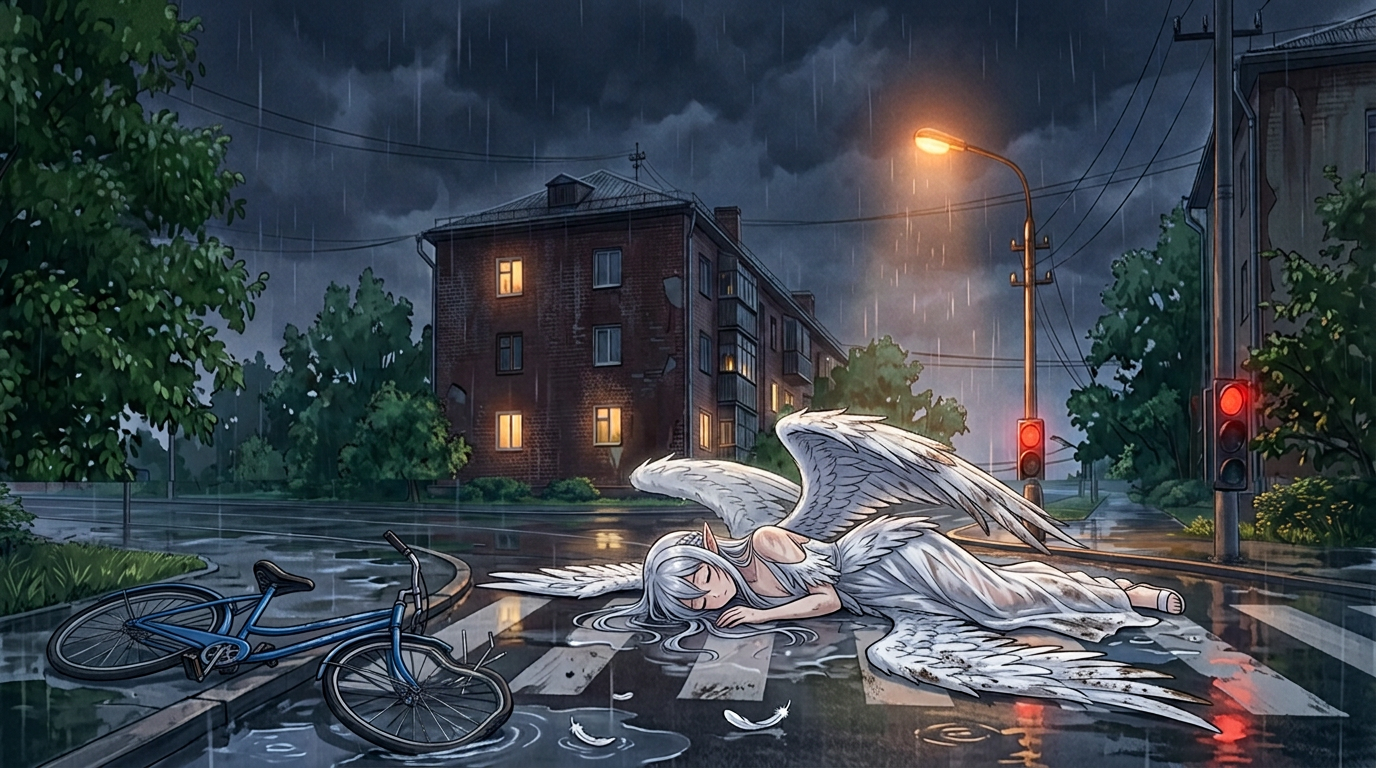
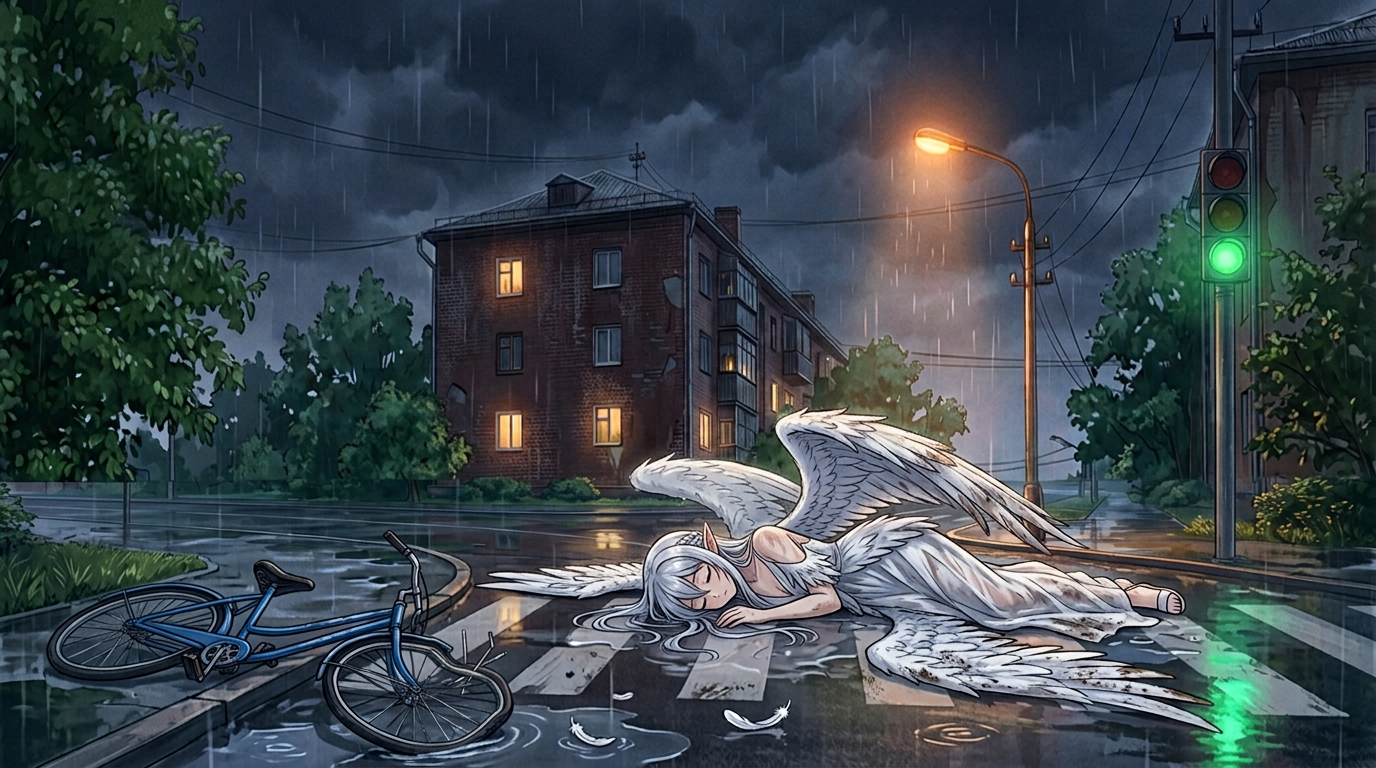
_31: CG — светофор на зебре (зелёный, на своей опоре), пустые босоножки у реки

Changed region(s): [[0.8438, 0.1875, 0.9688, 1.0], [0.7188, 0.5, 0.7812, 0.625], [0.7188, 0.9062, 0.7812, 1.0]]

diff --git a/index.html b/index.html
@@ -260,37 +260,37 @@
   </div>
 
   <!-- SCRIPT CHAPTERS -->
-  <script src="vn-config.js?v=20261102_30"></script>
-  <script src="vn-core.js?v=20261102_30"></script>
-  <script src="script/_registry.js?v=20261102_30"></script>
-  <script src="script/prologue_1_morning.js?v=20261102_30"></script>
-  <script src="script/prologue_2_city.js?v=20261102_30"></script>
-  <script src="script/prologue_3_barbershop.js?v=20261102_30"></script>
-  <script src="script/prologue_4_depot.js?v=20261102_30"></script>
-  <script src="script/prologue_5_crash.js?v=20261102_30"></script>
-  <script src="script/day1_1_mirael.js?v=20261102_30"></script>
-  <script src="script/day1_2_kitchen.js?v=20261102_30"></script>
-  <script src="script/day1_3_valeria.js?v=20261102_30"></script>
-  <script src="script/day1_4_bridge.js?v=20261102_30"></script>
-  <script src="script/day1_5_taya.js?v=20261102_30"></script>
-  <script src="script/day2_1_quit.js?v=20261102_30"></script>
-  <script src="script/day2_2_shift.js?v=20261102_30"></script>
-  <script src="script/day2_3_zero.js?v=20261102_30"></script>
-  <script src="script/day2_4_walk.js?v=20261102_30"></script>
-  <script src="script/day3_1_office.js?v=20261102_30"></script>
-  <script src="script/day3_2_nika.js?v=20261102_30"></script>
-  <script src="script/day3_3_home.js?v=20261102_30"></script>
-  <script src="script/day4_1_free.js?v=20261102_30"></script>
-  <script src="script/day4_2_barbershop.js?v=20261102_30"></script>
-  <script src="script/day4_3_home.js?v=20261102_30"></script>
-  <script src="script/day5_1_artyom.js?v=20261102_30"></script>
-  <script src="script/day5_2_elevator.js?v=20261102_30"></script>
-  <script src="script/day5_3_night.js?v=20261102_30"></script>
-  <script src="script/day6_1_morning.js?v=20261102_30"></script>
-  <script src="script/day6_2_squeeze.js?v=20261102_30"></script>
-  <script src="script/day6_3_taya.js?v=20261102_30"></script>
-  <script src="script/day7_1_voices.js?v=20261102_30"></script>
-  <script src="script/day7_2_stairs.js?v=20261102_30"></script>
-  <script src="engine.js?v=20261102_30"></script>
+  <script src="vn-config.js?v=20261102_31"></script>
+  <script src="vn-core.js?v=20261102_31"></script>
+  <script src="script/_registry.js?v=20261102_31"></script>
+  <script src="script/prologue_1_morning.js?v=20261102_31"></script>
+  <script src="script/prologue_2_city.js?v=20261102_31"></script>
+  <script src="script/prologue_3_barbershop.js?v=20261102_31"></script>
+  <script src="script/prologue_4_depot.js?v=20261102_31"></script>
+  <script src="script/prologue_5_crash.js?v=20261102_31"></script>
+  <script src="script/day1_1_mirael.js?v=20261102_31"></script>
+  <script src="script/day1_2_kitchen.js?v=20261102_31"></script>
+  <script src="script/day1_3_valeria.js?v=20261102_31"></script>
+  <script src="script/day1_4_bridge.js?v=20261102_31"></script>
+  <script src="script/day1_5_taya.js?v=20261102_31"></script>
+  <script src="script/day2_1_quit.js?v=20261102_31"></script>
+  <script src="script/day2_2_shift.js?v=20261102_31"></script>
+  <script src="script/day2_3_zero.js?v=20261102_31"></script>
+  <script src="script/day2_4_walk.js?v=20261102_31"></script>
+  <script src="script/day3_1_office.js?v=20261102_31"></script>
+  <script src="script/day3_2_nika.js?v=20261102_31"></script>
+  <script src="script/day3_3_home.js?v=20261102_31"></script>
+  <script src="script/day4_1_free.js?v=20261102_31"></script>
+  <script src="script/day4_2_barbershop.js?v=20261102_31"></script>
+  <script src="script/day4_3_home.js?v=20261102_31"></script>
+  <script src="script/day5_1_artyom.js?v=20261102_31"></script>
+  <script src="script/day5_2_elevator.js?v=20261102_31"></script>
+  <script src="script/day5_3_night.js?v=20261102_31"></script>
+  <script src="script/day6_1_morning.js?v=20261102_31"></script>
+  <script src="script/day6_2_squeeze.js?v=20261102_31"></script>
+  <script src="script/day6_3_taya.js?v=20261102_31"></script>
+  <script src="script/day7_1_voices.js?v=20261102_31"></script>
+  <script src="script/day7_2_stairs.js?v=20261102_31"></script>
+  <script src="engine.js?v=20261102_31"></script>
 </body>
 </html>

diff --git a/engine.js b/engine.js
@@ -1,6 +1,6 @@
 // ДВИЖОК ВИЗУАЛЬНОЙ НОВЕЛЛЫ «НЕ СМОТРИ НА НЕБО» ($WAG ENTERTAINMENT)
 (function () {
-  const ASSET_VER = "20261102_30";
+  const ASSET_VER = "20261102_31";
 
   function withVer(url) {
     if (!url) return "";
